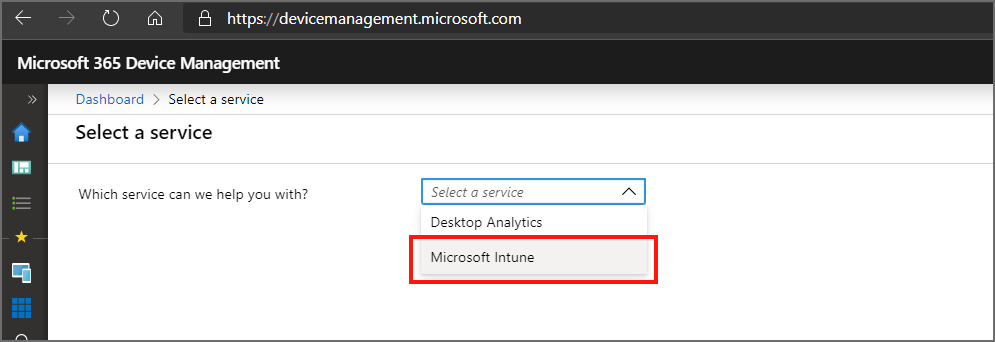
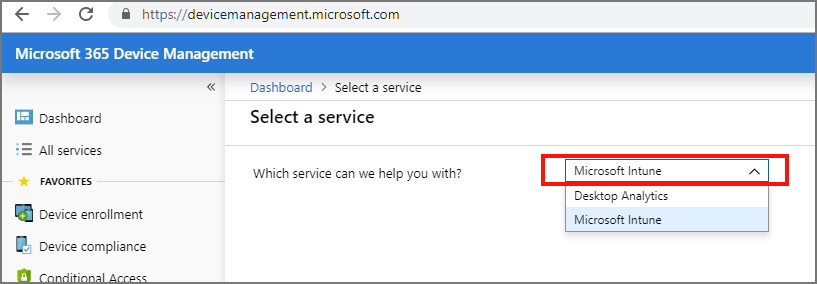
reverting new help and support, as it didn't ship

diff --git a/intune/fundamentals/get-support.md b/intune/fundamentals/get-support.md
@@ -9,9 +9,10 @@ keywords:
 author: brenduns
 ms.author: brenduns
 manager: dougeby
-ms.date: 10/30/2019
+ms.date: 08/01/2019
 ms.topic: conceptual
 ms.service: microsoft-intune
+ms.subservice: fundamentals
 ms.localizationpriority: high
 ms.technology:
 ms.assetid: 7fc95d17-098e-4da5-8a09-a96476569dd9
@@ -20,7 +21,7 @@ ms.assetid: 7fc95d17-098e-4da5-8a09-a96476569dd9
 
 #audience:
 #ms.devlang:
-ms.reviewer: srik
+ms.reviewer: cacamp
 ms.suite: ems
 search.appverid: MET150
 #ms.tgt_pltfrm:
@@ -28,108 +29,127 @@ ms.custom: intune-classic
 ms.collection: M365-identity-device-management
 ---
 
-# How to get support for Microsoft Intune
-
+# How to get support for Microsoft Intune  
+  
 Microsoft provides global technical, pre-sales, billing, and subscription support for Microsoft Intune. Support is available both online and by phone for paid and trial subscriptions. Online technical support is available in English and Japanese. Phone support and online billing support are available in additional languages.
 
-As an Intune admin, you can use the **Help and Support** option to file an on-line support ticket for Intune from the Azure portal. To create and manage a support incident, your account must have an Azure Active Directory (Azure AD) role that includes the *action* **microsoft.office365.supportTickets**. For information about Azure AD roles and permissions that are required to create a support ticket, see [administrator roles in Azure Active Directory](https://docs.microsoft.com/azure/active-directory/active-directory-assign-admin-roles-azure-portal).
+As an Intune admin, you can use the **Help and Support** option to file an on-line support ticket for Intune from the Azure portal. To create and manage a support incident, your account must have an Azure Active Directory (Azure AD) role that includes the *action* **microsoft.office365.supportTickets/tickets/manage**. For information about Azure AD roles and permissions that are required to create a support ticket, see [administrator roles in Azure Active Directory](https://docs.microsoft.com/azure/active-directory/active-directory-assign-admin-roles-azure-portal).  
 
->[!IMPORTANT]
+>[!IMPORTANT]  
 > For technical support with third-party products that work with Intune (like Saaswedo, Cisco, or Lookout), contact the supplier of that product first. Before you open a request with Intune support, make sure you configured the other product correctly.
 >
 > For information about troubleshooting issues related to Microsoft Intune, see the [Troubleshoot section](help-desk-operators.md) of the Intune documentation.
 
+## Help and support experience  
 
-## Help and support experience
+The Help and support experience for Intune is available from the [Microsoft 365 Device Management portal](https://devicemanagement.microsoft.com) and from all of the blades (or pages) under Intune in the Azure portal. 
 
-The Help and support experience for Intune is available from the [Microsoft 365 Device Management portal](https://devicemanagement.microsoft.com) and from all of the blades (or pages) under Intune in the Azure portal.
+![Intune blades](./media/get-support/intune-blades.png)
 
-The *Help and support* experience is similar to the experience seen in the [Microsoft 365 admin center](https://admin.microsoft.com/), and replaces the previous *Help + support*, which remains in place for other services in Azure.
 
-### Options to access Help and support 
+The *Help and support* experience is similar to the experience seen in the [Microsoft 365 admin center](https://admin.microsoft.com/), and replaces the previous *Help + support*, which remains in place for other services in Azure. 
 
-- **In the Azure portal:**
-
-  - Select **Help and support** from any Intune blade or page.
-
-  > [!NOTE]  
-  > If your instance of Intune is hosted on the private cloud for government, also known as a sovereign cloud like Azure Government, see [Intune support for private cloud for government](#intune-support-for-private-cloud-for-government), later in this article. The Intune *Help and support* experience won’t be available on the private cloud for government until next year.
-
-- **From the Device Management Dashboard:**
+To access Help and support, use the following options:  
+- **Device Management Dashboard:**
   - After you've selected a feature area for Intune, select the option for **Help and support**.
   - From any node in the Device Management portal, select the **?** icon in the upper-right corner of the portal, and then use the drop-down to select the service you want help with. The **?** icon in the Device Management portal supports multiple services, and you must select the specific service you want assistance for.  
 
     ![Select your service](./media/get-support/select-a-service.png)
 
-    After you select a service, you'll see the *Help and support* page for that service where you can specify details to [find solutions](#find-solutions) for a specific problem .
+    After you select a service, you'll see the *Help and support* page for that service where you can then [specify details](#specify-details-about-an-issue) about the specific problem you want help with.  
 
-    When the results of your search don't seem to match expectations for your service, check to ensure the correct service was selected. The service selection appears just after *Help and support*.  If the right service wasn't selected, click on *Select a service* to return to the service selection drop-down.
+    If the results of your search don't seem to match expectations for your service, check to ensure the correct service was selected. The service selection appears just after *Help and support*.  If the right service wasn't selected, click on *Select a service* to return to the service selection drop-down.   
 
-    ![Confirm your service](./media/get-support/confirm-your-service-selection.png)
+    ![Confirm your service](./media/get-support/confirm-your-service-selection.png) 
 
-###  The support experience
 
-  When you open Help and Support, the portal displays the **Need help?** window:
+- **In the Azure portal:**
+  - Select **Help and support** from any Intune blade or page
 
-  ![View the need help window](./media/get-support/need-help.png)
+  In the Azure portal, if you select either the **?** icon from the upper-right corner, or **Help + support** from the left-side navigation pane, you open *Help + support* for Azure. From Azure *Help + Support*, you can’t open an Intune support incident directly but you can get to the Intune *Help and support* page by doing the following actions: 
+  1. Select New support request.
+  2. For Issue type, specify Technical.
+  3. For Service, specify Microsoft Intune.
+  4. Select the link Intune Help and Support page.
 
-  In the left top corner there are three icons that you can select to open different panes of the *Need Help?* window. The pane your viewing is identified by the underline.
+> [!NOTE]  
+> If your instance of Intune is hosted on the Government Compute Cloud (GCC), also known as a sovereign cloud like Azure Government, see Intune support for Government Compute Cloud, later in this article. The Intune *Help and support* experience won’t be available on the GCC until later this year. 
 
-  Customers with a **Premier** or **Unified** support contract have [additional options](#premier-and-unified-support-customers) for support, and see a banner in *Need help?* that resembles the following image:
-  ![Premier banner](./media/get-support/premier-banner.png)
 
-  *Need Help?* opens to the *Find Solutions* pane. However, if you have an active support case the window opens to the *Service requests* pane where you can view details about your active and closed support cases.
+When you open *Help and support*, the portal displays a view that depends on whether or not you have active support incidents, and when you have Premier Support, some additional elements and options:
+- **No active support incidents**: You'll see the **Need help?** page, as seen in the following image from the Device Management dashboard.  
+- **Active support incidents**: You’ll see the [Support tickets](#view-support-cases) page, which displays the list of your active incidents.  
+- **Premier support contract**: Your experience is the same as the first two options, though you'll see the following additional elements on the Need help? page: 
+  - After the page title **Need Help?**, you’ll see the Premier Support banner:  
+    ![Premier support banner](./media/get-support/premier-banner.png)
+  - In the **Get support** section of the page, you can set the initial **Severity** level when you create a service request by phone.
 
-#### Find solutions
 
-![Select the find solutions pane](./media/get-support/find-solutions.png)
+![Device Management dashboard and the Need Help? page](./media/get-support/help-support-dashboard.png)
 
-On the *Find solutions* pane, specify a few details about an issue in the provided text box. Based on the text you provide about an issue, the pane populates with insights that are potential matches. You'll also get links to recommended articles that might help you resolve the issue.
+In this view you can do the following actions:
 
-When a strong match is found for the details you describe, troubleshooting tips can appear right in the *Need help?* window.
+1. [Specify details](#specify-details-about-an-issue) about the specific problem you want help with  
+2. [View context-sensitive help](#view-context-sensitive-help) and related solutions that are based on the details you specified  
+3. [Get support](#get-support), using either email or the phone  
+4. [View support cases](#view-support-cases) you have previously opened using this new workflow  
 
-For example, you might enter **Password synchronization errors**. The results include troubleshooting guidance directly in the pane, and links to recommended articles from our documentation library.
+### Specify details about an issue 
 
-![View troubleshooting insights](./media/get-support/troubleshooting-insights.png)
+When you open Help and support from a location that is supported by the new experience, the **Need help?** page opens. On this page, you can specify details about an issue. As you enter details, the console offers common queries based on the keywords you use. Select an offered choice or complete your own issue description. If you enter your own description, select **Get help** to submit it. After you submit a query, the console returns context-sensitive information that can help to solve the issue.
 
-#### Contact support
+The following are examples of queries you might submit:
+  
+- *Can’t restore iOS device*  
+- *Can’t create Conditional Access policy*  
 
-![Select the contact support pane](./media/get-support/contact-support.png)
+![Specify the issue on the Need Help? page](./media/get-support/describe-the-issue.png)
 
-From the *contact support* pane, you can submit a request for assistance. This pane is available after you provide some basic keywords on the *find solutions* pane.
+### View context-sensitive help 
 
-When requesting assistance, provide a description of the problem with as much detail as needed.  After confirming your phone and email contact information, select the method of contact you prefer. The window displays a response time for each contact method, which gives you an expectation of when you'll be contacted. Before submitting your request, attach files like logs or screenshots that can help fill in details about the issue.
+After you select an offered choice or submit your own query, context-sensitive results appear under **View solutions**. These results include both Intune specific self-help guidance and additional results returned from a web-search based on the query criteria.  
+![View-results](./media/get-support/view-results.png)
 
-![Contact support form](./media/get-support/contact-support-form.png)
+### Get support 
 
-After you fill in the required information, select **Contact me** to submit the request.
+If the self-help or web-based guidance doesn’t help you resolve the problem, use the console to open an email or phone support issue.  
+On the **Need help?** page, select the option you want to use.  
 
-#### Service requests
+  > [!NOTE] 
+  > Email requests for support are not available for all tenants.  
 
-![Select the service requests pane](./media/get-support/service-requests.png)
+- For an email request, provide your email address and optionally, you can add attachments to your submission. Select **Send** to open the request. 
 
-The *Service requests* pane displays your case history. Active cases are at the top of the list, with closed issues also available for review.
+  ![Email request](./media/get-support/email-support.png)
+  
+- For a phone request, provide your phone number. Optionally, you can include your email address and add attachments to your submission. Select Call me to submit the request.  
 
-![View your service request list](./media/get-support/service-requests-pane.png)
 
-If you have an active support case number, you can enter it here to jump to that issue, or you can select any incident from the list of active and closed incidents to view more information about it.
 
-When you’re done viewing details for an incident, select the left arrow that appears at the top of the service request window just above the icons for the three *Need Help?* pane icons. The back arrow returns the display to the list of support incidents you’ve opened.
+   ![Phone request](./media/get-support/phone-support.png)
 
-#### Premier and Unified support customers
+**Premier support**:  
+If you have a Premier support contract, you have the same options to create a phone support incident. You can also specify the **Severity** for the support call-back, and choose to create the support ticket against your Mission Critical contract.  
 
-As a customer with a **Premier** or **Unified** support contract, you can specify a severity for your issue, and schedule a support callback for a specific time and day. These options are available when you open or submit a new issue and when you edit an active support case.
+![Premier support options](./media/get-support/premier-phone-support-options.png)
 
-**Severity** - The options to specify the severity of an issue depend on your support contract:
 
-- *Premier*: Severity of A, B, or C
-- *Unified*: Critical, or non-critical
+### View support cases  
 
-Selecting either a severity **A** or **Critical** issue limits you to a phone support case, which provides the fastest option to get support.
+Select the history button to view the support incidents that you've created.  
 
-**Callback schedule** - You can request a callback on a specific day and time.
+![View support cases](./media/get-support/view-support-tickets.png)
 
-## Azure Help + support experience
+- Only the support cases that you open by using the new workflow are visible from within this workflow. To view them, use a Help and support view from the Device Management console or from an Intune blade in the Azure portal. These cases have numbers that are eight digits long. You can also view these cases from the Microsoft 365 admin center.  
+
+- Cases that you opened when not using the Intune Help and support experience are unchanged. To view them, you must use a Help and support view that isn't part of the Intune experience, or Device Management dashboard. These cases have numbers that start with **117** or **118** and are 15 digits long. To view them:
+
+    1. Sign in to  Azure (<https://portal.azure.com>) with your Intune admin credentials, select the *?* icon in the upper-right corner of the portal, and then select *Help + support* to go to the [Azure Help + support](https://ms.portal.azure.com/#blade/Microsoft_Azure_Support/HelpAndSupportBlade/overview) page.
+
+    2. On the **Help + support** page you can view the list of **Recent support requests**, and select them to view additional details.
+ 
+
+## Azure Help + support experience 
 
 You can no longer use the Azure *Help + support* experience to get assistance with Intune, unless your subscription is on a private cloud for government.
 If your instance of Intune doesn't run on a private cloud for government, navigating through Azure *Help + support* redirects you to the Intune *Help and support* experience to create and manage support incidents:
@@ -151,20 +171,22 @@ On this page:
   ![New support request](./media/get-support/new-request.png)
 
 
-## Intune support for private cloud for government
+## Intune support for Government Compute Cloud  
 
 When your Intune subscription hosted on the private cloud for government, which is also known as a sovereign cloud like Azure Government, you don’t yet have access to the newer Intune Help and support experience.  Instead, use the following information go get support for Intune.
 
-### Create an online support ticket
 
->[!IMPORTANT]
-> As *Help and support* transitions to a new system which is not yet available for the private cloud for government, when you create a support incident, the portal identifies a support case that uses a 15 digit identification number. When the 15-digit case is created, a mirror of that case is created for use by Microsoft Support. This mirror case is created in a new support system, uses an 8-digit case ID, and is used by support services to track all work and communications for your support incident. Shortly after your 15-digit case is created, you’ll receive an email that identifies the 8-digit number of the mirrored support case that is used by support services.
->
-> Support personal work and communicate from the 8-digit support case, and only use the 8-digit support case to log communications and track incident progress. Therefore, you’ll receive email updates from that 8-digit support case that serve as your case-work track record. No details are logged into the 15-digit support incident. When support concludes and the 8-digit support case closes, that status is reflected in by the 15-digit support case that you can view from within the azure portal.  No other updates or status changes should be expected for the 15-digit support case.
->
-> When transitions between support tools completes later this year, the support experience Intune hosted on the government cloud will resemble the default *Help and support* experience that’s currently available for Intune subscriptions hosted on the public cloud.
+### Create an online support ticket 
 
-1. Sign in to the Azure portal (<https://portal.azure.us>) with your Intune admin credentials, select the **?** icon in the upper-right corner of the portal, and then select **Help + support** to go to the [Azure Help + support](https://portal.azure.com/#blade/Microsoft_Azure_Support/HelpAndSupportBlade/overview) page.
+>[!IMPORTANT]    
+> As *Help and support* transitions to a new system which is not yet available for the GCC, when you create a support incident, the portal identifies a support case that uses a 15 digit identification number. When the 15-digit case is created, a mirror of that case is created for use by Microsoft Support. This mirror case is created in a new support system, uses an 8-digit case ID, and is used by support services to track all work and communications for your support incident. Shortly after your 15-digit case is created, you’ll receive an email that identifies the 8-digit number of the mirrored support case that is used by support services.  
+> 
+> Support personal work and communicate from the 8-digit support case, and only use the 8-digit support case to log communications and track incident progress. Therefore, you’ll receive email updates from that 8-digit support case that serve as your case-work track record. No details are logged into the 15-digit support incident. When support concludes and the 8-digit support case closes, that status is reflected in by the 15-digit support case that you can view from within the azure portal.  No other updates or status changes should be expected for the 15-digit support case.  
+> 
+> When transitions between support tools completes later this year, the support experience Intune hosted on the government cloud will resemble the default *Help and support* experience that’s currently available for Intune subscriptions hosted on the public cloud.  
+
+
+1. Sign in to the Azure portal (<https://portal.azure.com>) with your Intune admin credentials, select the **?** icon in the upper-right corner of the portal, and then select **Help + support** to go to the [Azure Help + support](https://portal.azure.com/#blade/Microsoft_Azure_Support/HelpAndSupportBlade/overview) page.
 
    ![Image of the question mark link with the Help + support link highlighted](./media/get-support/azure-get-support.png)
 
@@ -198,14 +220,14 @@ When your Intune subscription hosted on the private cloud for government, which 
 
 ### View support requests  
 
-You can view your support requests from within the Azure portal. However, limited information is available.  To view your incidents:
+You can view your support requests from within the Azure portal. However, limited information is available.  To view your incidents: 
 
 1. Sign in to  Azure (<https://portal.azure.com>) with your Intune admin credentials, select the **?** icon in the upper-right corner of the portal, and then select **Help + support** to go to the [Azure Help + support](https://portal.azure.com/#blade/Microsoft_Azure_Support/HelpAndSupportBlade/overview) page.
 
 2. On the **Help + support** page you can view the list of **Recent support requests**.
 
    > [!IMPORTANT]  
-   > Private cloud for government customers can only view the 15-digit support case number, and the incident status. All case communications and tracking of work or alerts are sent by email and reference the 8-digit support case number that is created as a mirror of the support case opened from within the Intune console.
+   > Government Compute Cloud customers can only view the 15-digit support case number, and the incident status. All case communications and tracking of work or alerts are sent by email and reference the 8-digit support case number that is created as a mirror of the support case opened from within the Intune console.   
 
 ## Additional resources  
 

diff --git a/intune/fundamentals/whats-new.md b/intune/fundamentals/whats-new.md
@@ -108,14 +108,6 @@ Intune enrollment and Company Portal now support iOS versions 11 and later. Olde
 
 We've added a security baseline Preview for [Microsoft Edge settings](../protect/security-baseline-settings-edge.md). 
 
-
-
-### Monitor and troubleshoot
-
-#### Updated support experience   <!-- 5012398 -->
-
-The in-console experience for [getting help and support for Intune](get-support.md) is updated and streamlined.  We've improved  the in-console search and feedback for common issues, and the workflow you use to contact support. When opening a support issue, you'll see real-time estimates for when you can expect a callback or email reply, and Premier and Unified support customers can easily specify a severity for their issue, to help get support faster.
-
 <!-- ########################## -->
 ## Week of October 21, 2019
 
